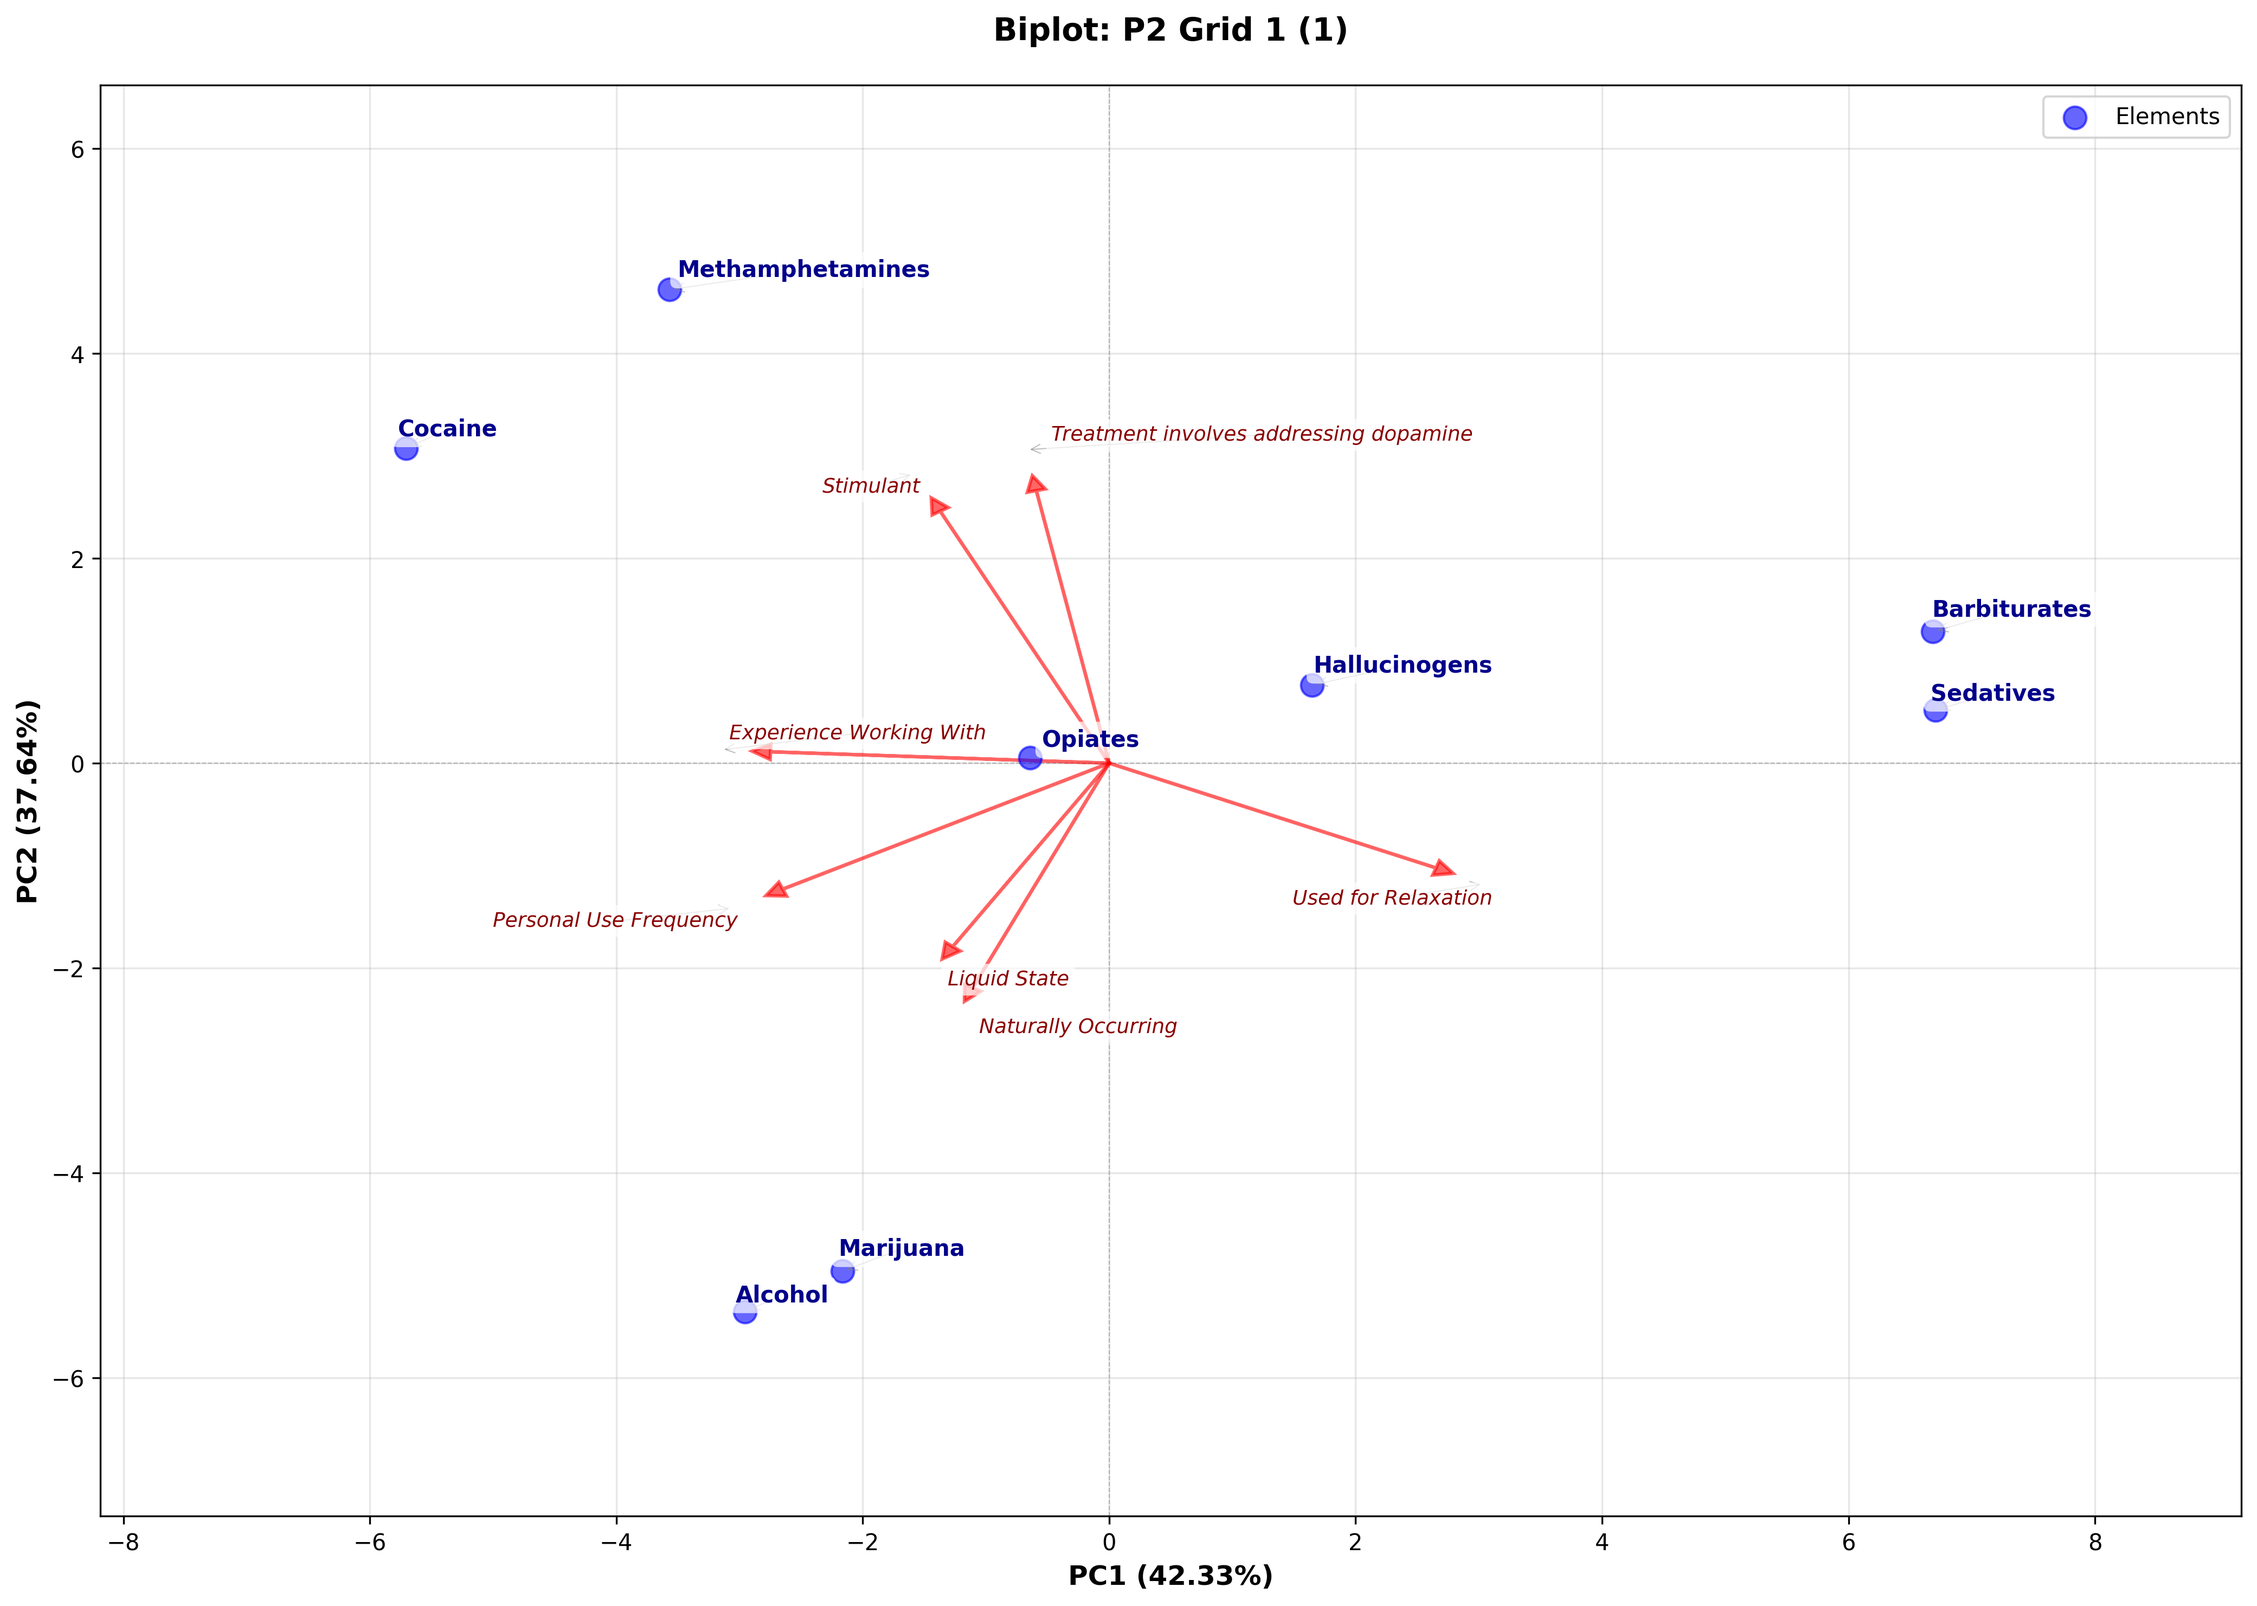
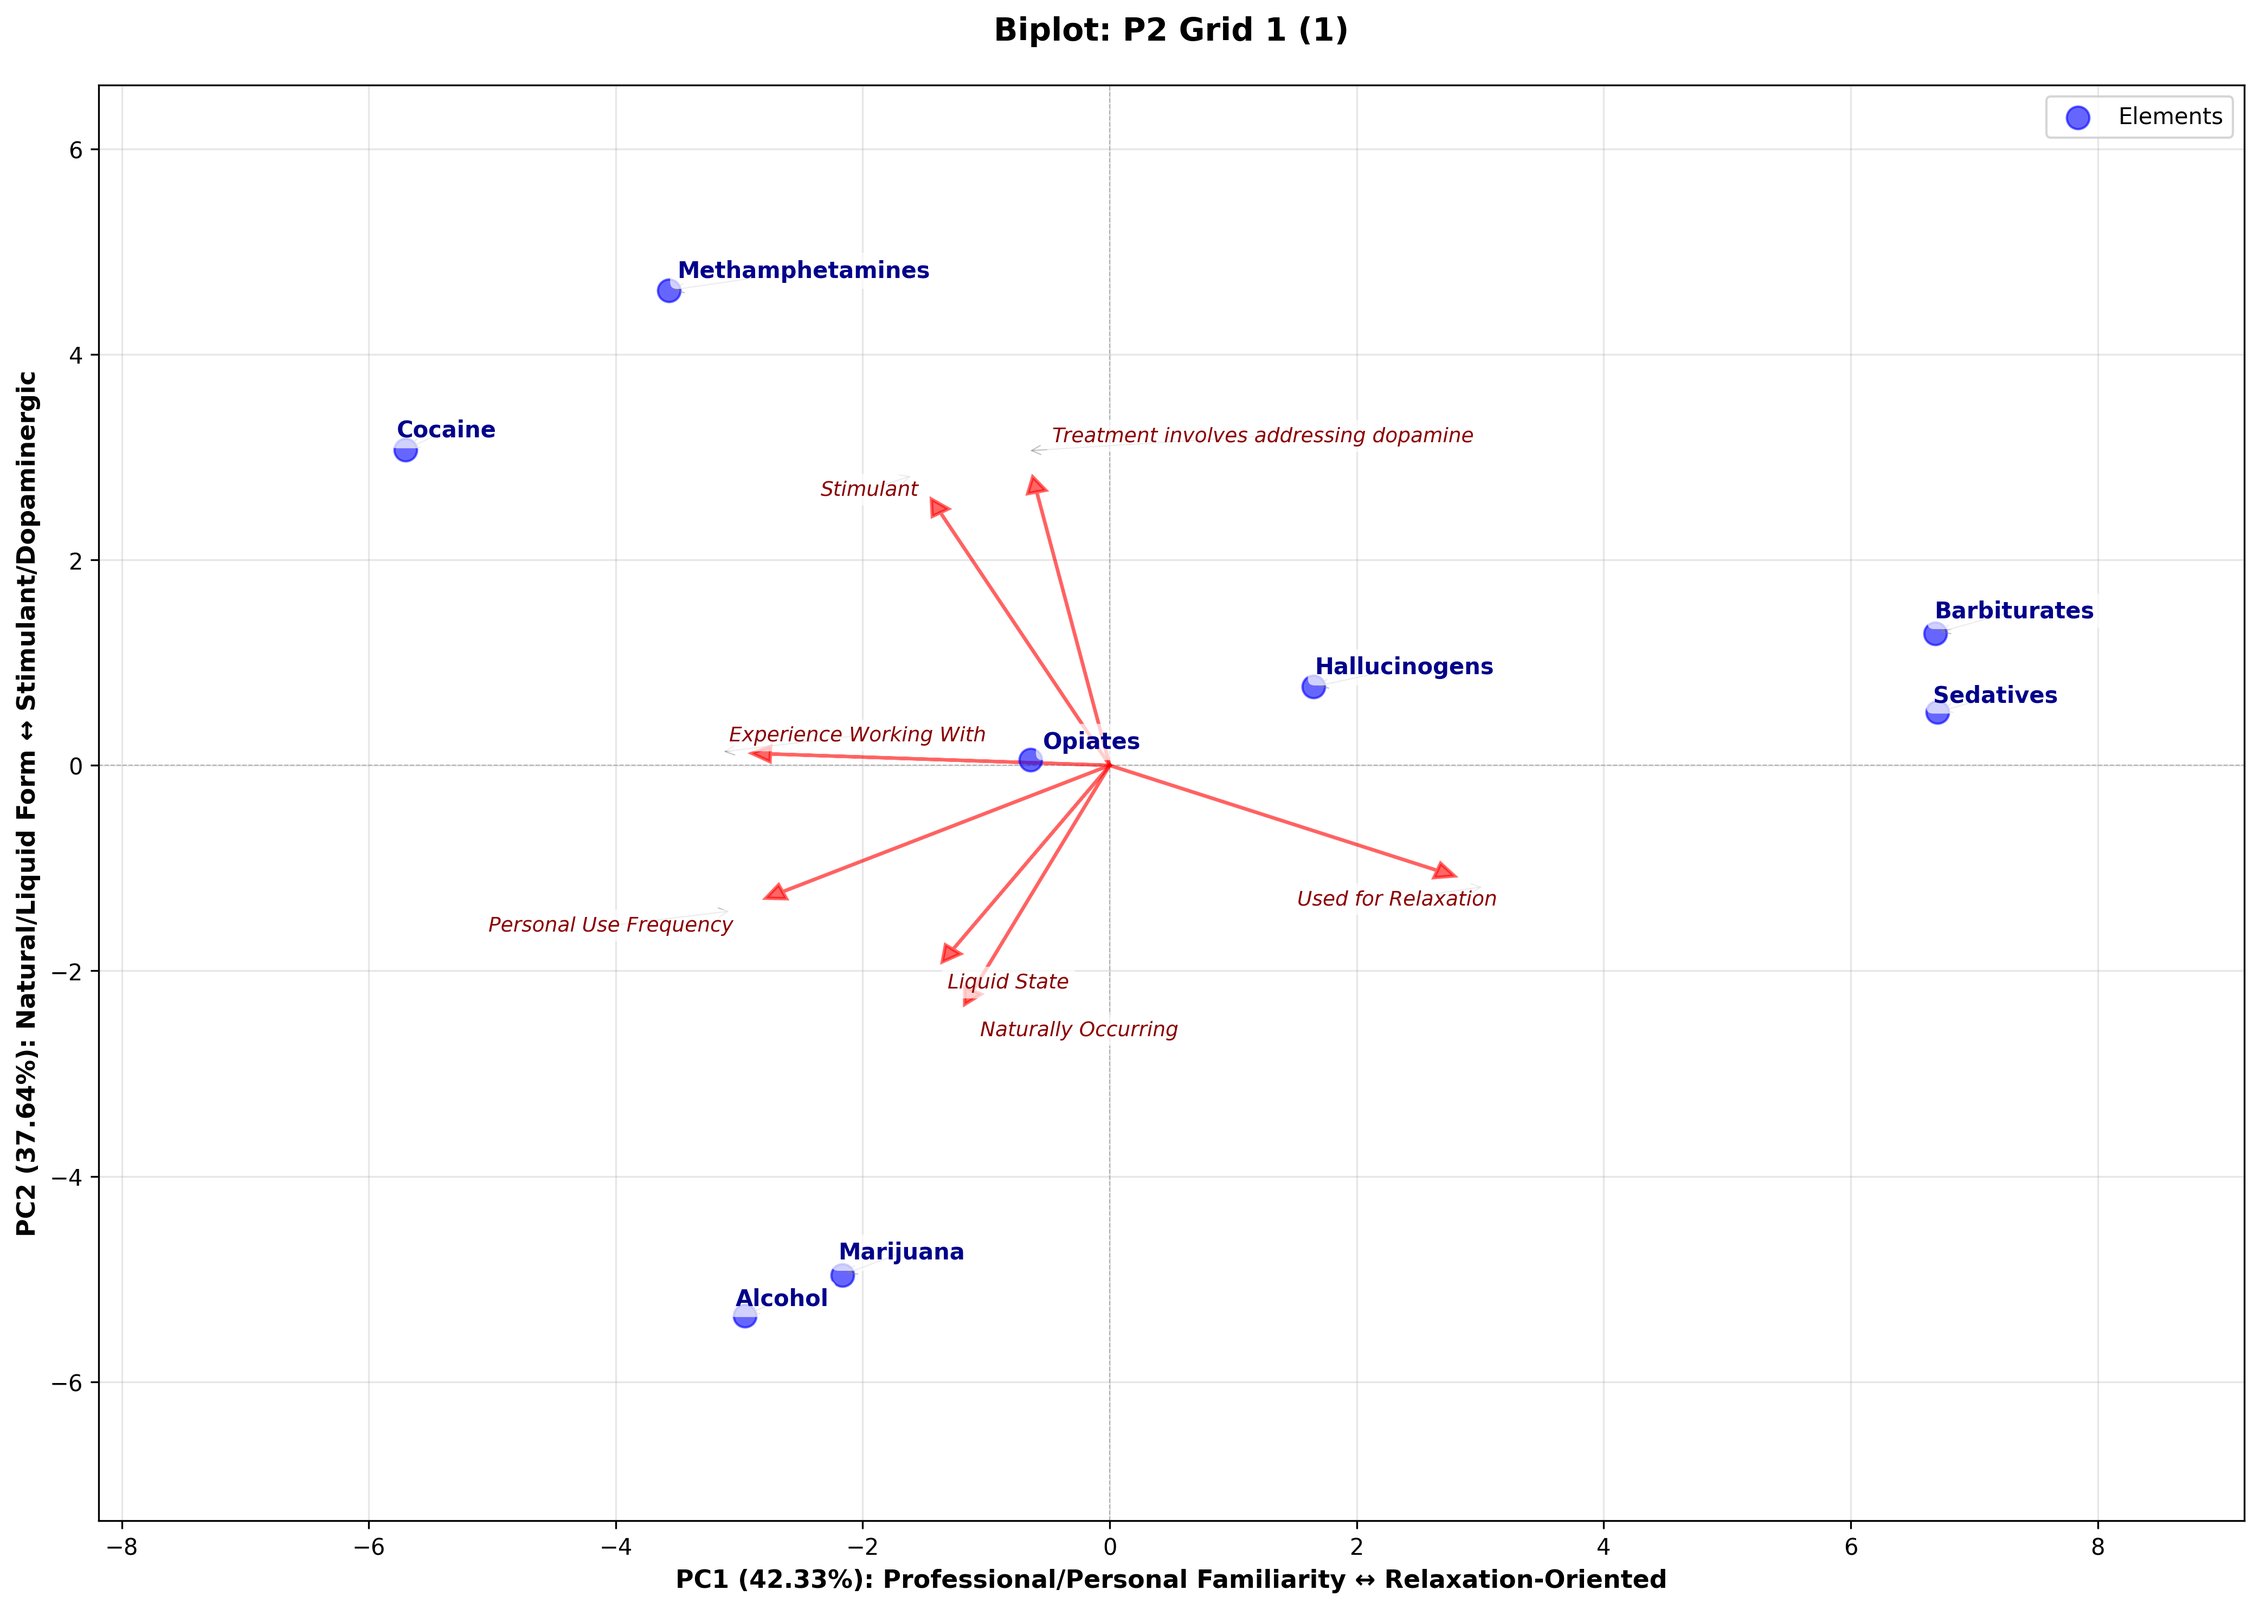
Add variance percentages to biplot axis labels
- Analyzed construct loadings to identify top clustered components
- Created bipolar component labels based on loading polarities
- Added component interpretations to all biplot axes
- Labels show both variance % and interpretation (e.g., "PC1 (74.36%): Prosocial/Connected/Authentic ↔ Antisocial/Poor Judgment")
- Updated all 11 biplots with meaningful component labels

Component labels by grid:
- P1 Grid 1: Stimulating/Uppers vs Functionally Impairing; Pharmaceutical vs Homemade
- P1 Grid 2: Prosocial/Connected vs Antisocial; Demographically Similar vs Different
- P2 Grid 1: Professional Familiarity vs Relaxation; Natural/Liquid vs Stimulant
- P2 Grid 2: Prosocial/Stable vs Unstable/Addicted; Masculine/Relational vs Feminine
- P3 Grid 1: Socially Accessible vs Productivity; Social/Recreational vs Medical
- P3 Grid 2: Professionally Aligned vs Misaligned; Personal vs Professional
- P4 Grid 1: Counterculture vs High-Risk; Affordable vs Legal
- P4 Grid 2: Compassionate/Culturally Aware vs Masculine/AUD; Assertive vs Rigid

diff --git a/create_biplots.py b/create_biplots.py
@@ -114,13 +114,15 @@ def calculate_element_scores(ratings, pc1_loadings, pc2_loadings):
 
     return scores
 
-def create_biplot(data, title, output_path, element_scale=1.0):
+def create_biplot(data, title, output_path, element_scale=1.0, pc1_component_label=None, pc2_component_label=None):
     """
     Create a biplot with element scores and construct loadings.
     Vectors are flipped (multiplied by -1) and labels are adjusted to avoid overlap.
 
     Args:
         element_scale: Scaling factor for element scores (default 1.0)
+        pc1_component_label: Custom bipolar label for PC1 component
+        pc2_component_label: Custom bipolar label for PC2 component
     """
     # Calculate element scores
     scores = calculate_element_scores(
@@ -212,7 +214,7 @@ def create_biplot(data, title, output_path, element_scale=1.0):
     ax.axvline(x=0, color='k', linestyle='--', linewidth=0.5, alpha=0.3, zorder=1)
     ax.grid(True, alpha=0.3, zorder=1)
 
-    # Labels and title with variance percentages
+    # Labels and title with variance percentages and component labels
     pc1_label = 'PC1'
     pc2_label = 'PC2'
 
@@ -221,8 +223,14 @@ def create_biplot(data, title, output_path, element_scale=1.0):
     if data.get('pc2_variance') is not None:
         pc2_label = f'PC2 ({data["pc2_variance"]:.2f}%)'
 
-    ax.set_xlabel(pc1_label, fontsize=12, weight='bold')
-    ax.set_ylabel(pc2_label, fontsize=12, weight='bold')
+    # Add component interpretation labels if provided
+    if pc1_component_label:
+        pc1_label = f'{pc1_label}: {pc1_component_label}'
+    if pc2_component_label:
+        pc2_label = f'{pc2_label}: {pc2_component_label}'
+
+    ax.set_xlabel(pc1_label, fontsize=11, weight='bold')
+    ax.set_ylabel(pc2_label, fontsize=11, weight='bold')
     ax.set_title(title, fontsize=14, weight='bold', pad=20)
 
     # Legend
@@ -238,6 +246,42 @@ def create_biplot(data, title, output_path, element_scale=1.0):
     return fig
 
 def main():
+    # Define component labels for each grid
+    component_labels = {
+        'P1 Grid 1': {
+            'pc1': 'Stimulating/Uppers ↔ Functionally Impairing',
+            'pc2': 'Pharmaceutical Grade ↔ Homemade'
+        },
+        'P1 Grid 2': {
+            'pc1': 'Prosocial/Connected/Authentic ↔ Antisocial/Poor Judgment',
+            'pc2': 'Demographically/Culturally Similar ↔ Different'
+        },
+        'P2 Grid 1': {
+            'pc1': 'Professional/Personal Familiarity ↔ Relaxation-Oriented',
+            'pc2': 'Natural/Liquid Form ↔ Stimulant/Dopaminergic'
+        },
+        'P2 Grid 2': {
+            'pc1': 'Prosocial/Educated/Stable ↔ Unstable/Narcissistic/Addicted',
+            'pc2': 'Masculine/Relational ↔ Feminine/Distant'
+        },
+        'P3 Grid 1': {
+            'pc1': 'Socially Accessible/Oral ↔ Productivity-Oriented',
+            'pc2': 'Social/Recreational ↔ Medical'
+        },
+        'P3 Grid 2': {
+            'pc1': 'Professionally/Ethically Aligned ↔ Misaligned',
+            'pc2': 'Personal/Close ↔ Professional/Skills-Based'
+        },
+        'P4 Grid 1': {
+            'pc1': 'Counterculture/Recreational ↔ High-Risk/Polydrug',
+            'pc2': 'Affordable/Accessible ↔ Legal/Licit'
+        },
+        'P4 Grid 2': {
+            'pc1': 'Compassionate/Culturally Aware ↔ Masculine/AUD/Dominating',
+            'pc2': 'Assertive/Culturally Competent ↔ Rigid/One-Size-Fits-All'
+        }
+    }
+
     # Find all CSV files
     csv_files = glob.glob('/home/user/pca/*.csv')
     csv_files.sort()
@@ -270,8 +314,20 @@ def main():
             # Apply scaling for P1 Grid 2 element scores
             element_scale = 1.5 if 'P1 Grid 2' in filename else 1.0
 
+            # Get component labels for this grid
+            pc1_comp_label = None
+            pc2_comp_label = None
+            for grid_key in component_labels.keys():
+                if grid_key in filename:
+                    pc1_comp_label = component_labels[grid_key]['pc1']
+                    pc2_comp_label = component_labels[grid_key]['pc2']
+                    break
+
             # Create biplot
-            fig = create_biplot(data, f"Biplot: {title}", output_path, element_scale=element_scale)
+            fig = create_biplot(data, f"Biplot: {title}", output_path,
+                              element_scale=element_scale,
+                              pc1_component_label=pc1_comp_label,
+                              pc2_component_label=pc2_comp_label)
             plt.close(fig)
 
             print(f"  ✓ Successfully created biplot")
